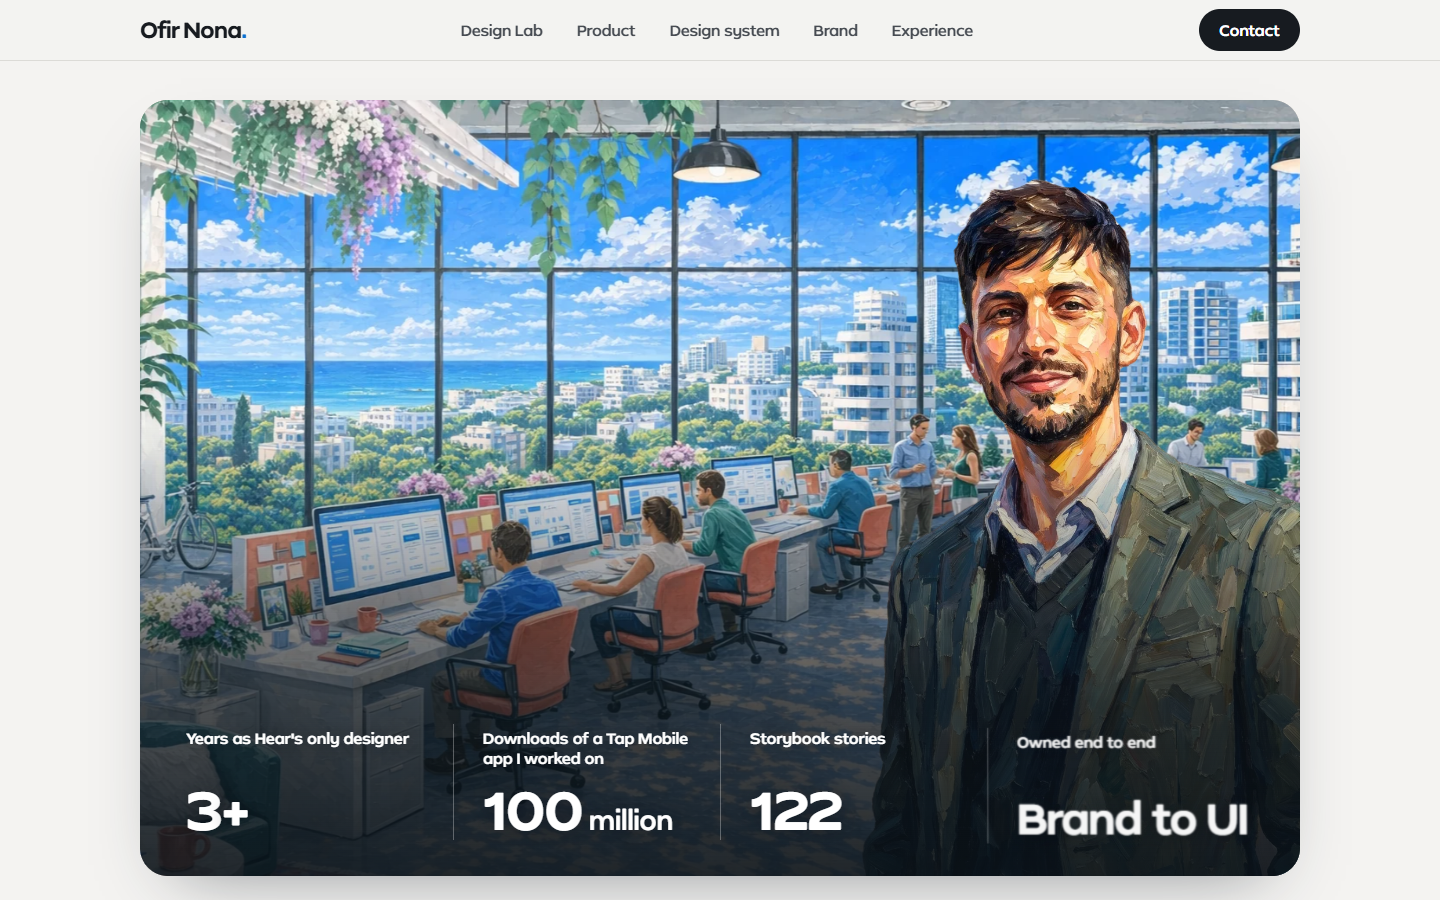
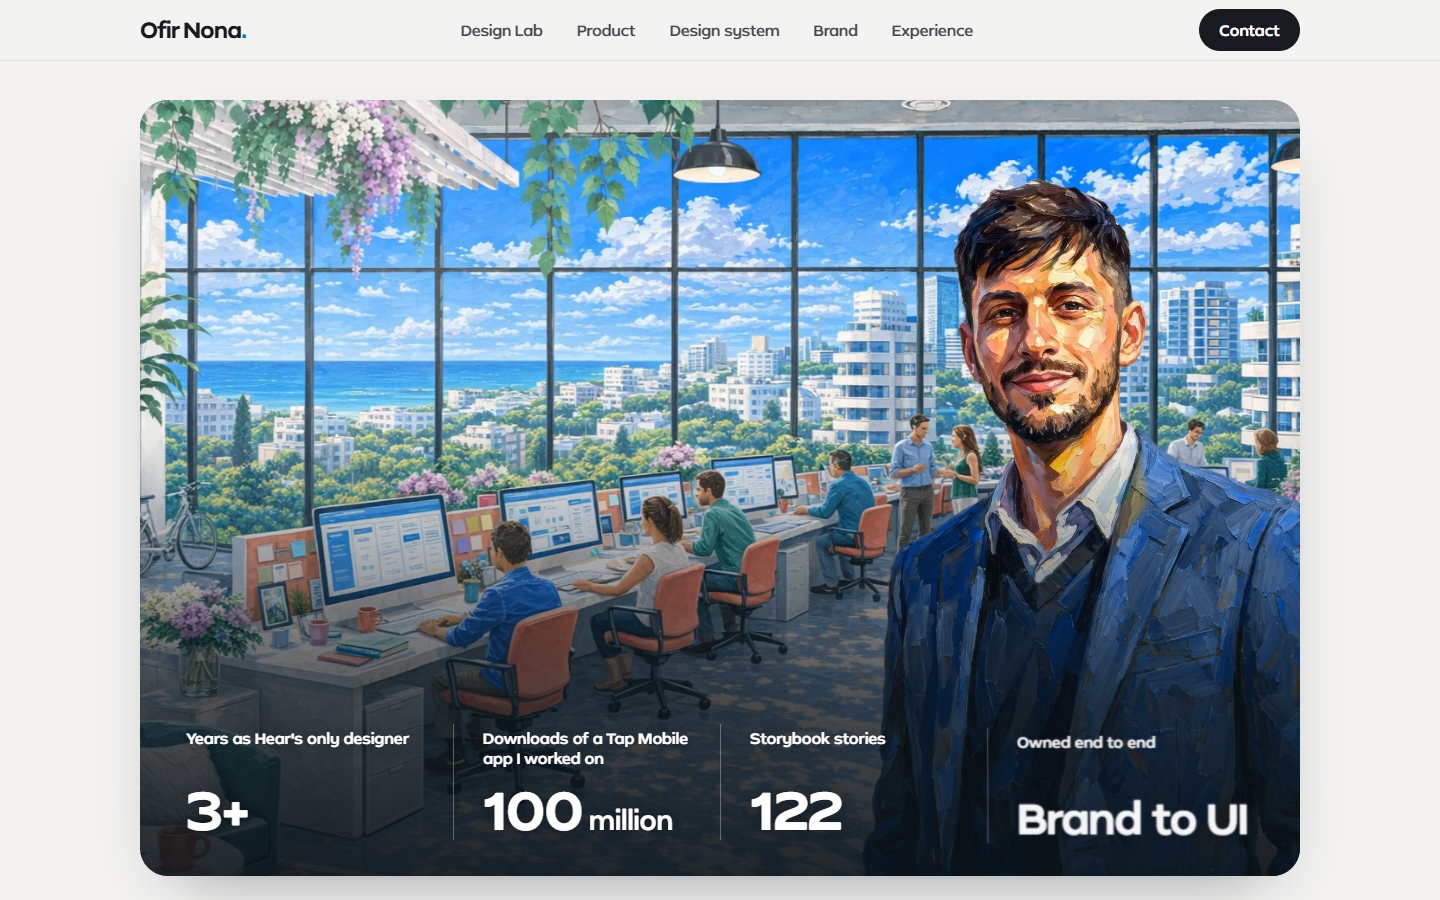
Opening figure: jacket recoloured to the studio painting's blue

Changed region(s): [[0.75, 0.4667, 0.9062, 0.7778], [0.625, 0.56, 0.6875, 0.7778], [0.875, 0.8089, 0.9062, 0.84]]

diff --git a/index.html b/index.html
@@ -3975,7 +3975,7 @@ html.me-scroll #about .me-path{ margin-top: clamp(28px, 4vw, 56px); }
         <p class="me-lead">Three years as the only designer at Hear, from first research to front-end code in the product.</p>
         <div class="hv-cta"><a class="hv-btn hv-btn-1" href="#top">See the work <span aria-hidden="true">↓</span></a><a class="hv-btn hv-btn-2" href="ofir-nona-cv.pdf" target="_blank" rel="noopener" aria-label="CV (PDF, opens in a new tab)">Download CV</a></div>
       </div>
-      <figure class="me-photo me-v7"><span class="me-v7-in"><img class="me-v7-bg" src="img/me-v7-studio-1536.webp" srcset="img/me-v7-studio-960.webp 960w, img/me-v7-studio-1536.webp 1536w" sizes="(min-width: 861px) min(100vw, 1280px), 140vw" width="1536" height="1024" alt="" fetchpriority="high" decoding="async"><img class="me-v7-fg" src="img/me-v7-fig.webp" width="900" height="1231" alt="Painted portrait of Ofir Nona in a bright design studio in Tel Aviv, with the city and the sea in the windows behind him" fetchpriority="high" decoding="async"></span></figure>
+      <figure class="me-photo me-v7"><span class="me-v7-in"><img class="me-v7-bg" src="img/me-v7-studio-1536.webp" srcset="img/me-v7-studio-960.webp 960w, img/me-v7-studio-1536.webp 1536w" sizes="(min-width: 861px) min(100vw, 1280px), 140vw" width="1536" height="1024" alt="" fetchpriority="high" decoding="async"><img class="me-v7-fg" src="img/me-v7-fig-blue.webp" width="900" height="1231" alt="Painted portrait of Ofir Nona in a bright design studio in Tel Aviv, with the city and the sea in the windows behind him" fetchpriority="high" decoding="async"></span></figure>
     </div>
     <ol class="me-pillars me-facts">
       <li><span class="me-k">Years as Hear's only designer</span><strong class="me-v"><span data-n="3">3</span>+</strong></li>
